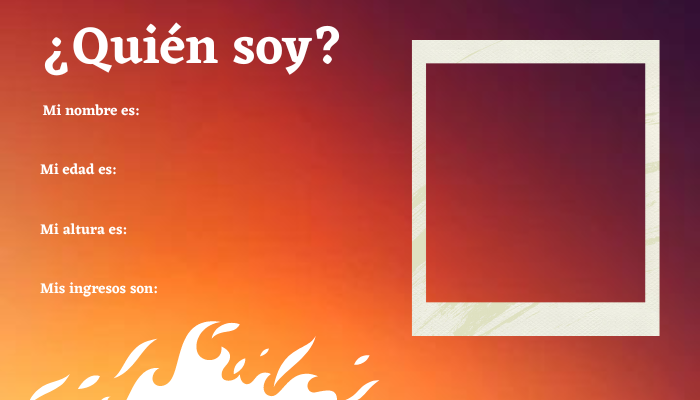
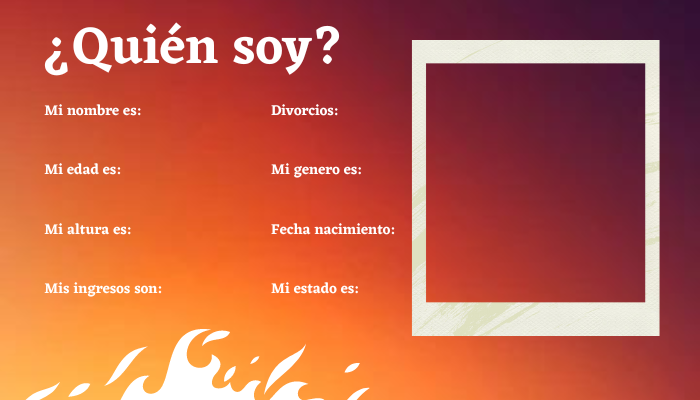
2/12/22/12:28/ Se actuliza VentanaAplicacion "DISEÑO"

diff --git a/PRF_PGR1_202202_VelozaJuan_RiañoFerddy_BullaDaniel_QuintanaSebastian/src/co/edu/unbosque/view/VentanaAplicacion.java b/PRF_PGR1_202202_VelozaJuan_RiañoFerddy_BullaDaniel_QuintanaSebastian/src/co/edu/unbosque/view/VentanaAplicacion.java
@@ -31,49 +31,49 @@ public class VentanaAplicacion extends JFrame{
 		
 		nombre = new JLabel ("me llamo ...");
 		nombre.setForeground(Color.black);
-		nombre.setBounds(50, 120, 300,50);
+		nombre.setBounds(44, 115, 300,50);
 		
 		edad = new JLabel ("tengo ...");
 		edad.setForeground(Color.black);
-		edad.setBounds(50, 180, 120,50);
+		edad.setBounds(44, 175, 120,50);
 		
 		estatura = new JLabel ("mido ....");
 		estatura.setForeground(Color.black);
-		estatura.setBounds(50, 240, 120,50);
+		estatura.setBounds(44, 235, 120,50);
 		
 		ingresos = new JLabel ("ingreso....");
 		ingresos.setForeground(Color.black);
-		ingresos.setBounds(50, 300, 180,50);
+		ingresos.setBounds(44, 295, 180,50);
 		
 		divorcio = new JLabel ("me llamo ...");
 		divorcio.setForeground(Color.black);
-		divorcio.setBounds(300, 120, 300,50);
+		divorcio.setBounds(272, 115, 300,50);
 		
 		sexo = new JLabel ("tengo ...");
 		sexo.setForeground(Color.black);
-		sexo.setBounds(300, 180, 120,50);
+		sexo.setBounds(272, 175, 120,50);
 		
 		nacimiento = new JLabel ("mido ....");
 		nacimiento.setForeground(Color.black);
-		nacimiento.setBounds(300, 240, 120,50);
+		nacimiento.setBounds(272, 235, 120,50);
 		
 		estado = new JLabel ("mido ....");
 		estado.setForeground(Color.black);
-		estado.setBounds(300, 300, 120,50);
+		estado.setBounds(272, 295, 120,50);
 		
 		Like = new JButton("l");
 		ImageIcon imag2 = new ImageIcon(getClass().getResource("/Imagenes/BotonLike.png"));
 		ImageIcon icono2 = new ImageIcon(imag2.getImage().getScaledInstance(70, 40, Image.SCALE_DEFAULT));
 		Like.setIcon(icono2);
 		Like.setActionCommand(LIKE);
-		Like.setBounds(411, 350, 60,40);
+		Like.setBounds(460, 350, 60,40);
 		
 		Dislike = new JButton("d");
 		ImageIcon imag3 = new ImageIcon(getClass().getResource("/Imagenes/BotonDislike.png"));
 		ImageIcon icono3 = new ImageIcon(imag3.getImage().getScaledInstance(70, 40, Image.SCALE_DEFAULT));
 		Dislike.setIcon(icono3);
 		Dislike.setActionCommand(DISLIKE);
-		Dislike.setBounds(505, 350, 60,40);
+		Dislike.setBounds(550, 350, 60,40);
 		
 		fondo = new JLabel();
 		ImageIcon imag5 = new ImageIcon(getClass().getResource("/Imagenes/FondoVentanaAplicacion.png"));
